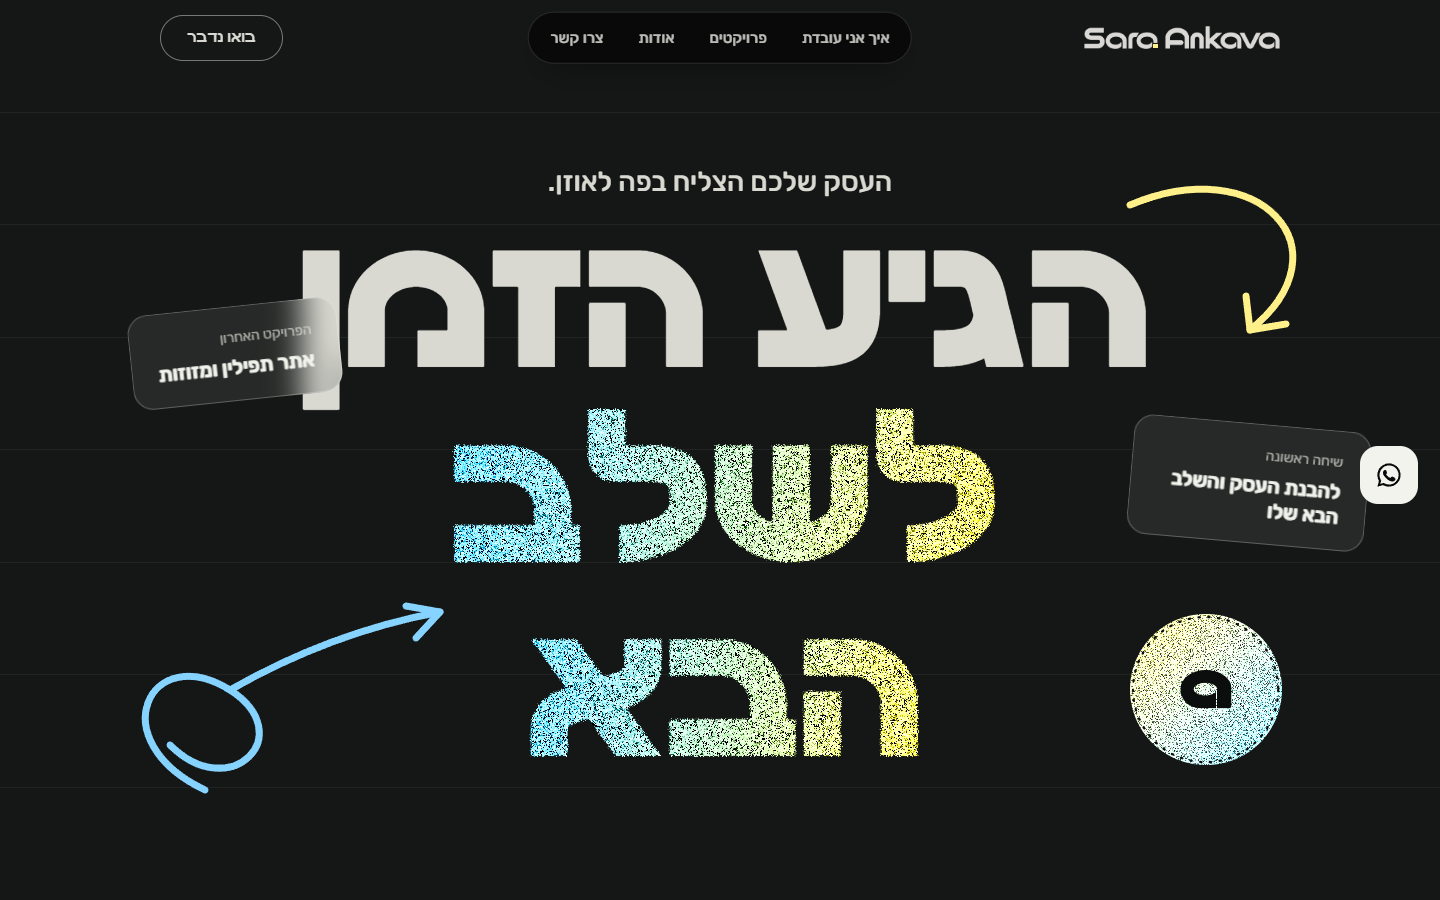
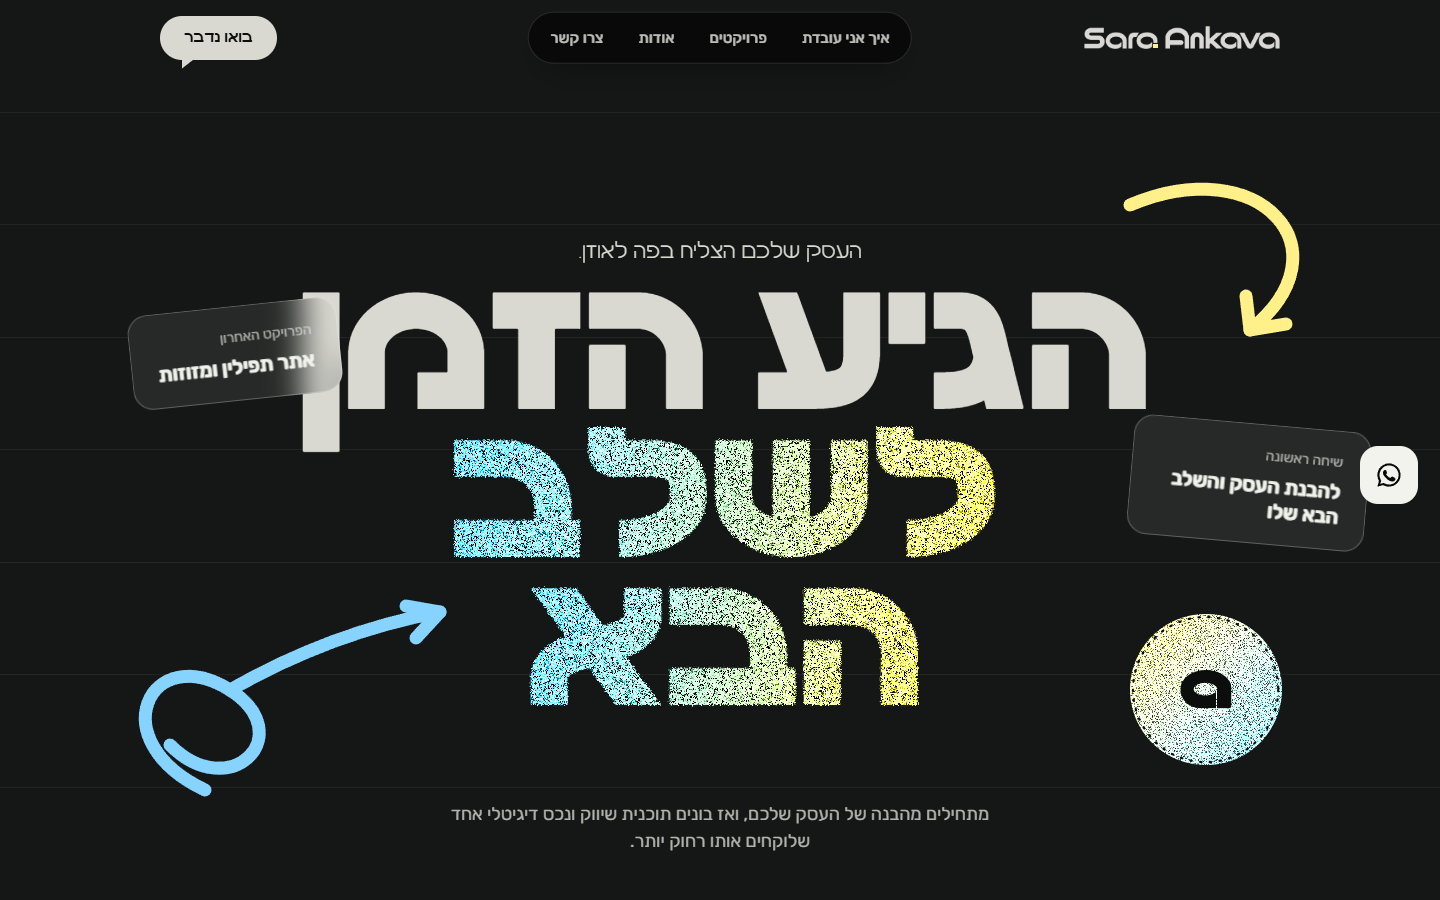
v6 hero: tighter title, speech-bubble buttons site-wide, thicker arrows, paragraph at bottom, thin brand-font small line

diff --git a/versions/v6/assets/css/v6.css b/versions/v6/assets/css/v6.css
@@ -238,3 +238,19 @@ body::before,body::after{display:none!important}
 .hb__l{overflow:visible}
 @media (min-width:901px){.hb__card2{right:5vw;top:47vh}}
 @media (max-width:900px){.hb__badge{top:auto;bottom:6vh;right:7vw;width:72px}.hb__card1{margin-top:28px}}
+
+/* ===== עדכון: כותרת צפופה, משפט קטן בפונט המותג הדק, חיצים עבים, כפתורי בועת דיבור, פסקה ===== */
+.hb__title{line-height:.7}
+.hb__l{padding-top:0;padding-bottom:.18em;margin-bottom:-.12em}
+.hb__small{font-family:"Sara Ankava",system-ui,sans-serif;font-weight:300;font-size:clamp(15px,1.45vw,22px);letter-spacing:.01em}
+.ar{stroke-width:13}
+.hb__p{position:absolute;z-index:4;left:50%;transform:translateX(-50%);bottom:5vh;width:min(560px,60vw);margin:0;text-align:center;font-size:18px;line-height:1.5;color:rgb(217 217 210 / .8)}
+/* כפתורי בועת דיבור: קפסולה בצבע אבן עם זנב קטן בפינה, בכל האתר */
+.cta6,.btn,.h6__btn{position:relative;overflow:visible;background:var(--v6-stone);color:#0c0e0d;border:0;border-radius:999px;clip-path:none;box-shadow:none}
+.cta6::after,.btn::after,.h6__btn::after{content:"";position:absolute;left:22px;bottom:-9px;width:18px;height:14px;background:inherit;clip-path:polygon(0 0,100% 0,0 100%);pointer-events:none}
+.cta6--main::before,.btn::before{display:none}
+.cta6:hover,.btn:hover{background:var(--v6-sun);color:#0c0e0d}
+.hdr .cta6{min-height:44px;padding:0 24px;font-size:15px}
+.btn--ghost{background:transparent;color:var(--v6-stone);box-shadow:inset 0 0 0 1px rgb(217 217 210 / .5)}
+.btn--ghost::after{display:none}
+@media (max-width:900px){.hb__p{position:relative;left:auto;transform:none;bottom:auto;width:auto;margin-top:22px;text-align:start}.hb__card1{margin-top:20px}}

diff --git a/versions/v6/index.html b/versions/v6/index.html
@@ -18,7 +18,7 @@
 <link rel="preload" href="assets/fonts/SaraAnkava-Bold-v1.2.woff2" as="font" type="font/woff2" crossorigin>
 <link rel="stylesheet" href="assets/css/style.css?v=6">
 <link rel="stylesheet" href="assets/css/v4.css?v=4">
-<link rel="stylesheet" href="assets/css/v6.css?v=38">
+<link rel="stylesheet" href="assets/css/v6.css?v=39">
 <meta name="robots" content="noindex">
 <script>document.documentElement.classList.add('js');setTimeout(function(){if(!window.__saReady)document.documentElement.classList.remove('js')},3000)</script>
 <script type="application/ld+json">
@@ -65,6 +65,7 @@
       <path class="ar ar2" d="M205 790C100 740 150 640 230 690C300 735 230 805 170 745"/><path class="ar ar2" d="M230 690C300 650 370 625 440 612"/><path class="ar ar2" d="M440 612l-34-6M440 612l-24 26"/>
     </svg>
     <div class="hb__badge" aria-hidden="true"><div class="gr-sq"></div><svg viewBox="0 0 200 200"><circle cx="100" cy="100" r="96" fill="none" stroke="#0c0e0d" stroke-width="3" stroke-dasharray="2 11" stroke-linecap="round"/></svg><svg class="hb__a" viewBox="0 0 700 520"><path d="M260 520A260 260 0 0 1 0 260A350 260 0 0 1 350 0A350 260 0 0 1 700 260L700 490Q700 520 670 520L500 520L500 275.6A160 86 0 1 0 486 299.5L486 520Z"/></svg></div>
+    <p class="hb__p">מתחילים מהבנה של העסק שלכם, ואז בונים תוכנית שיווק ונכס דיגיטלי אחד שלוקחים אותו רחוק יותר.</p>
     <a class="hb__card hb__card1" href="#projects"><span>הפרויקט האחרון</span><b>אתר תפילין ומזוזות</b></a>
     <div class="hb__card hb__card2"><span>שיחה ראשונה</span><b>להבנת העסק והשלב הבא שלו</b></div>
   </section>
